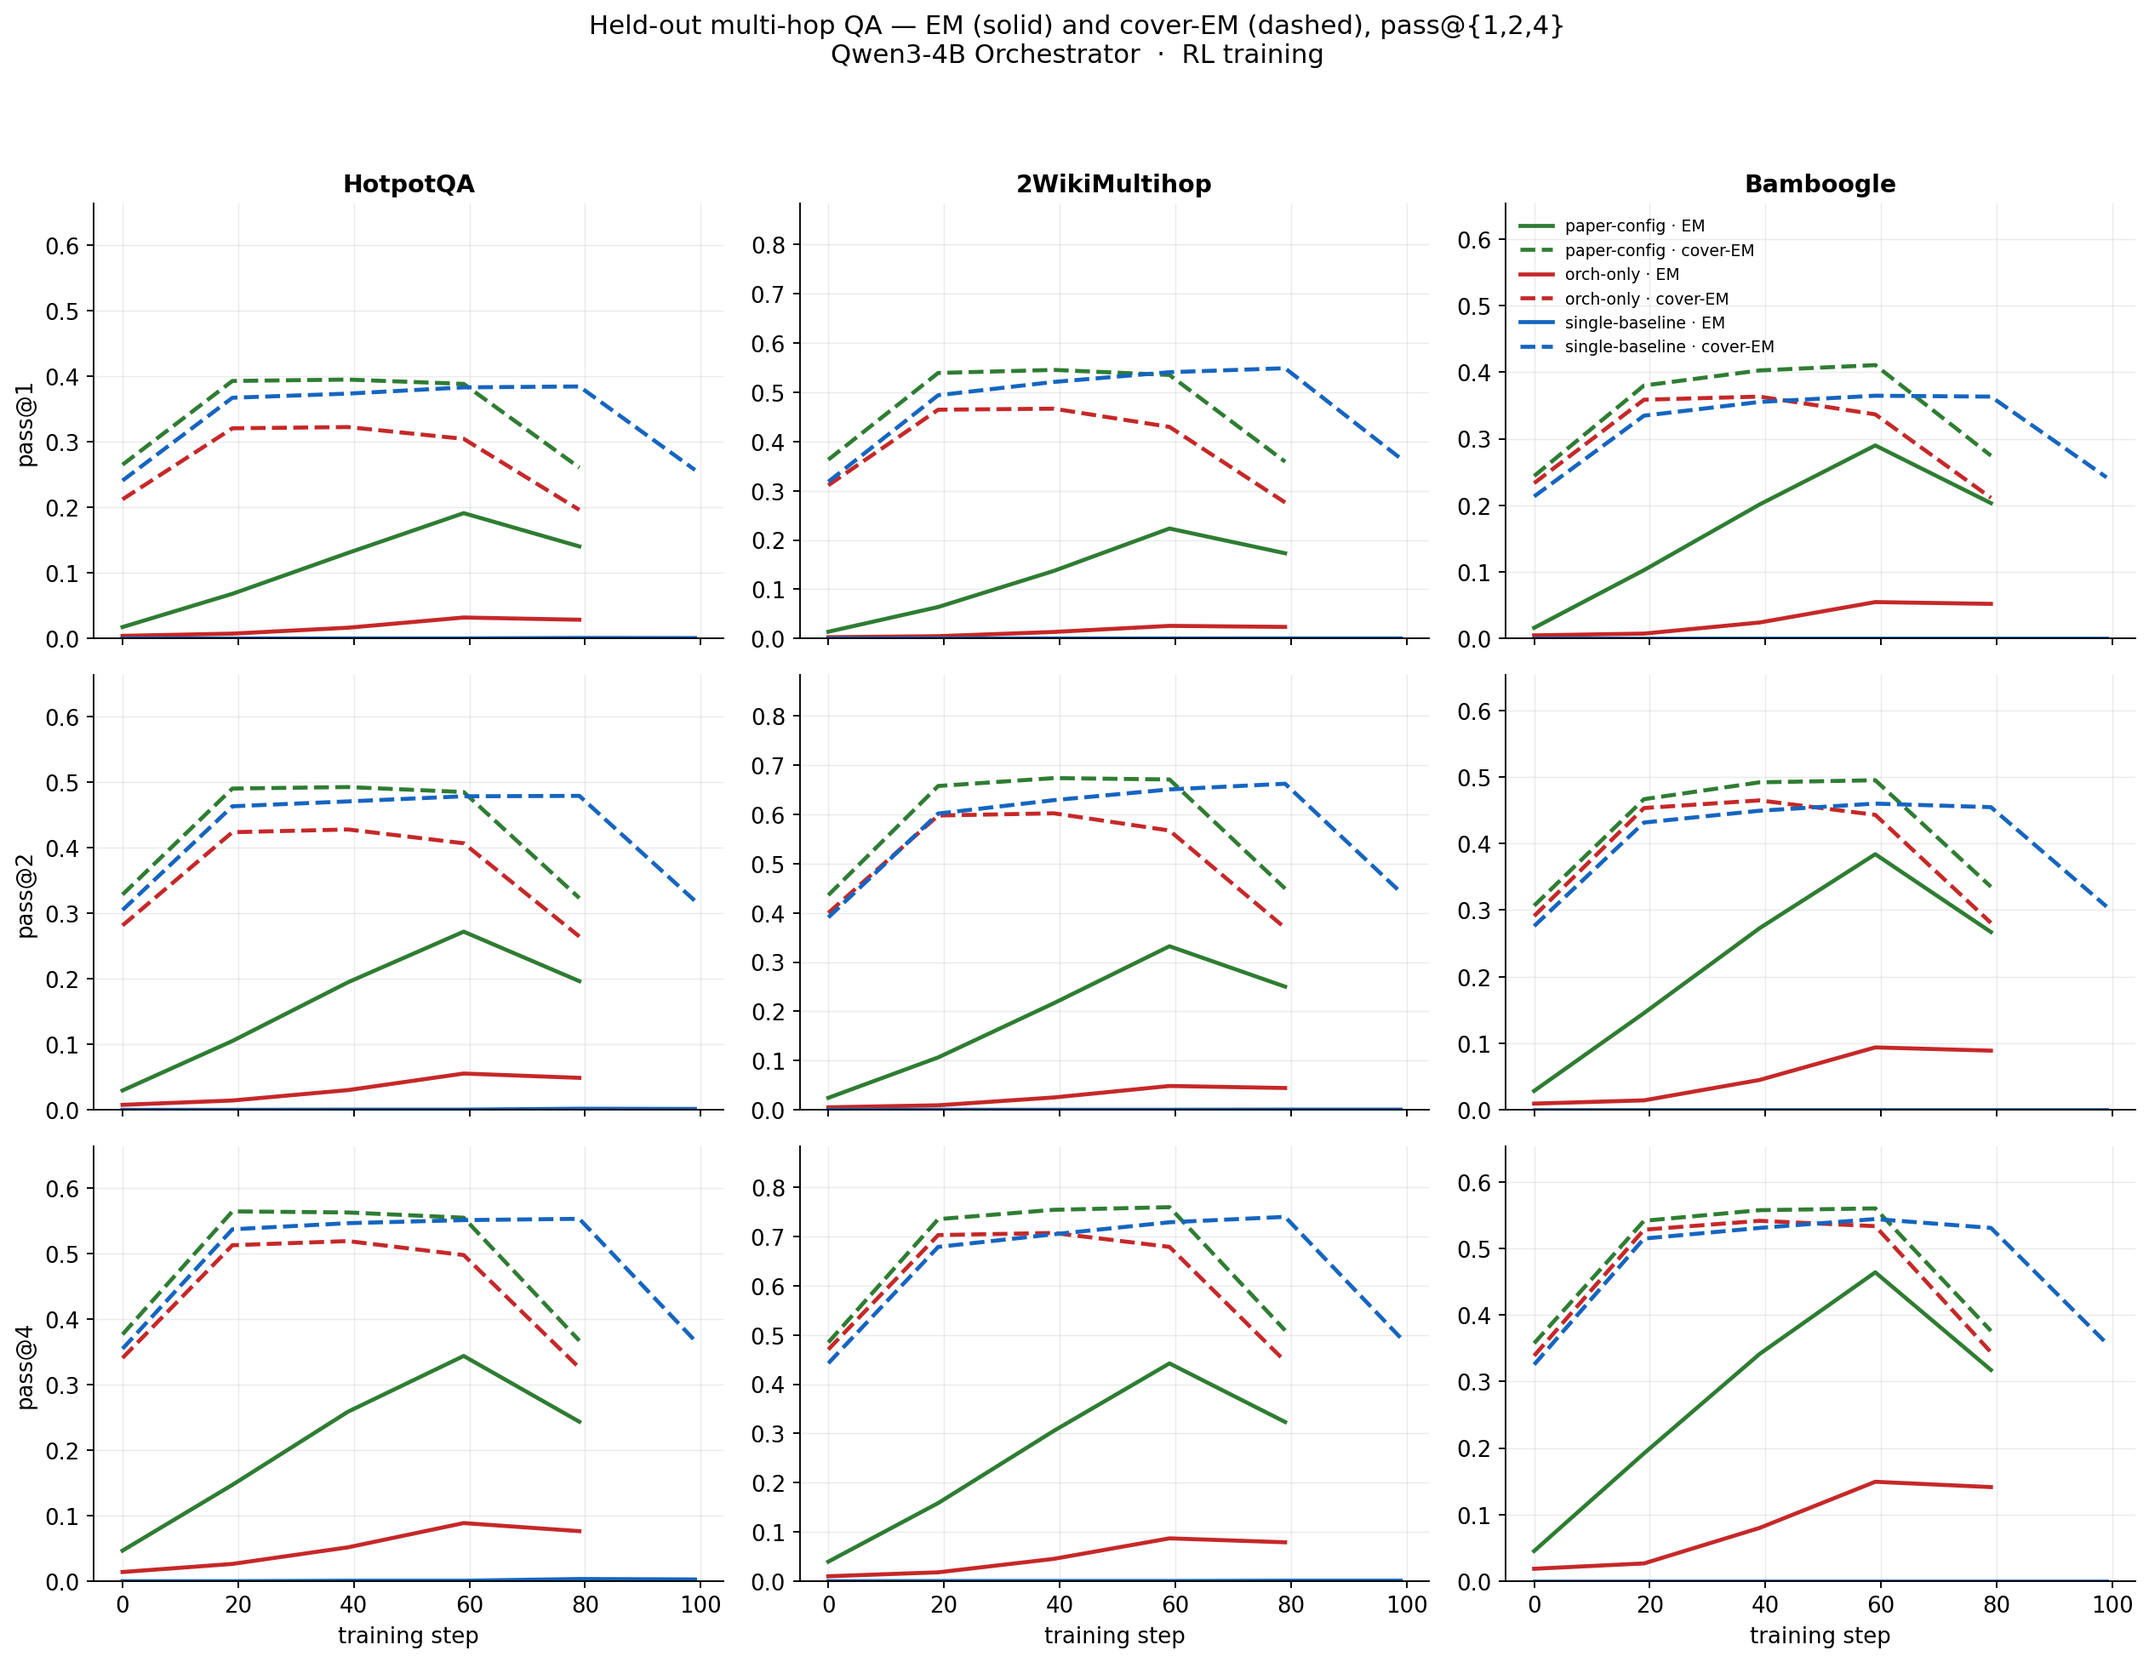
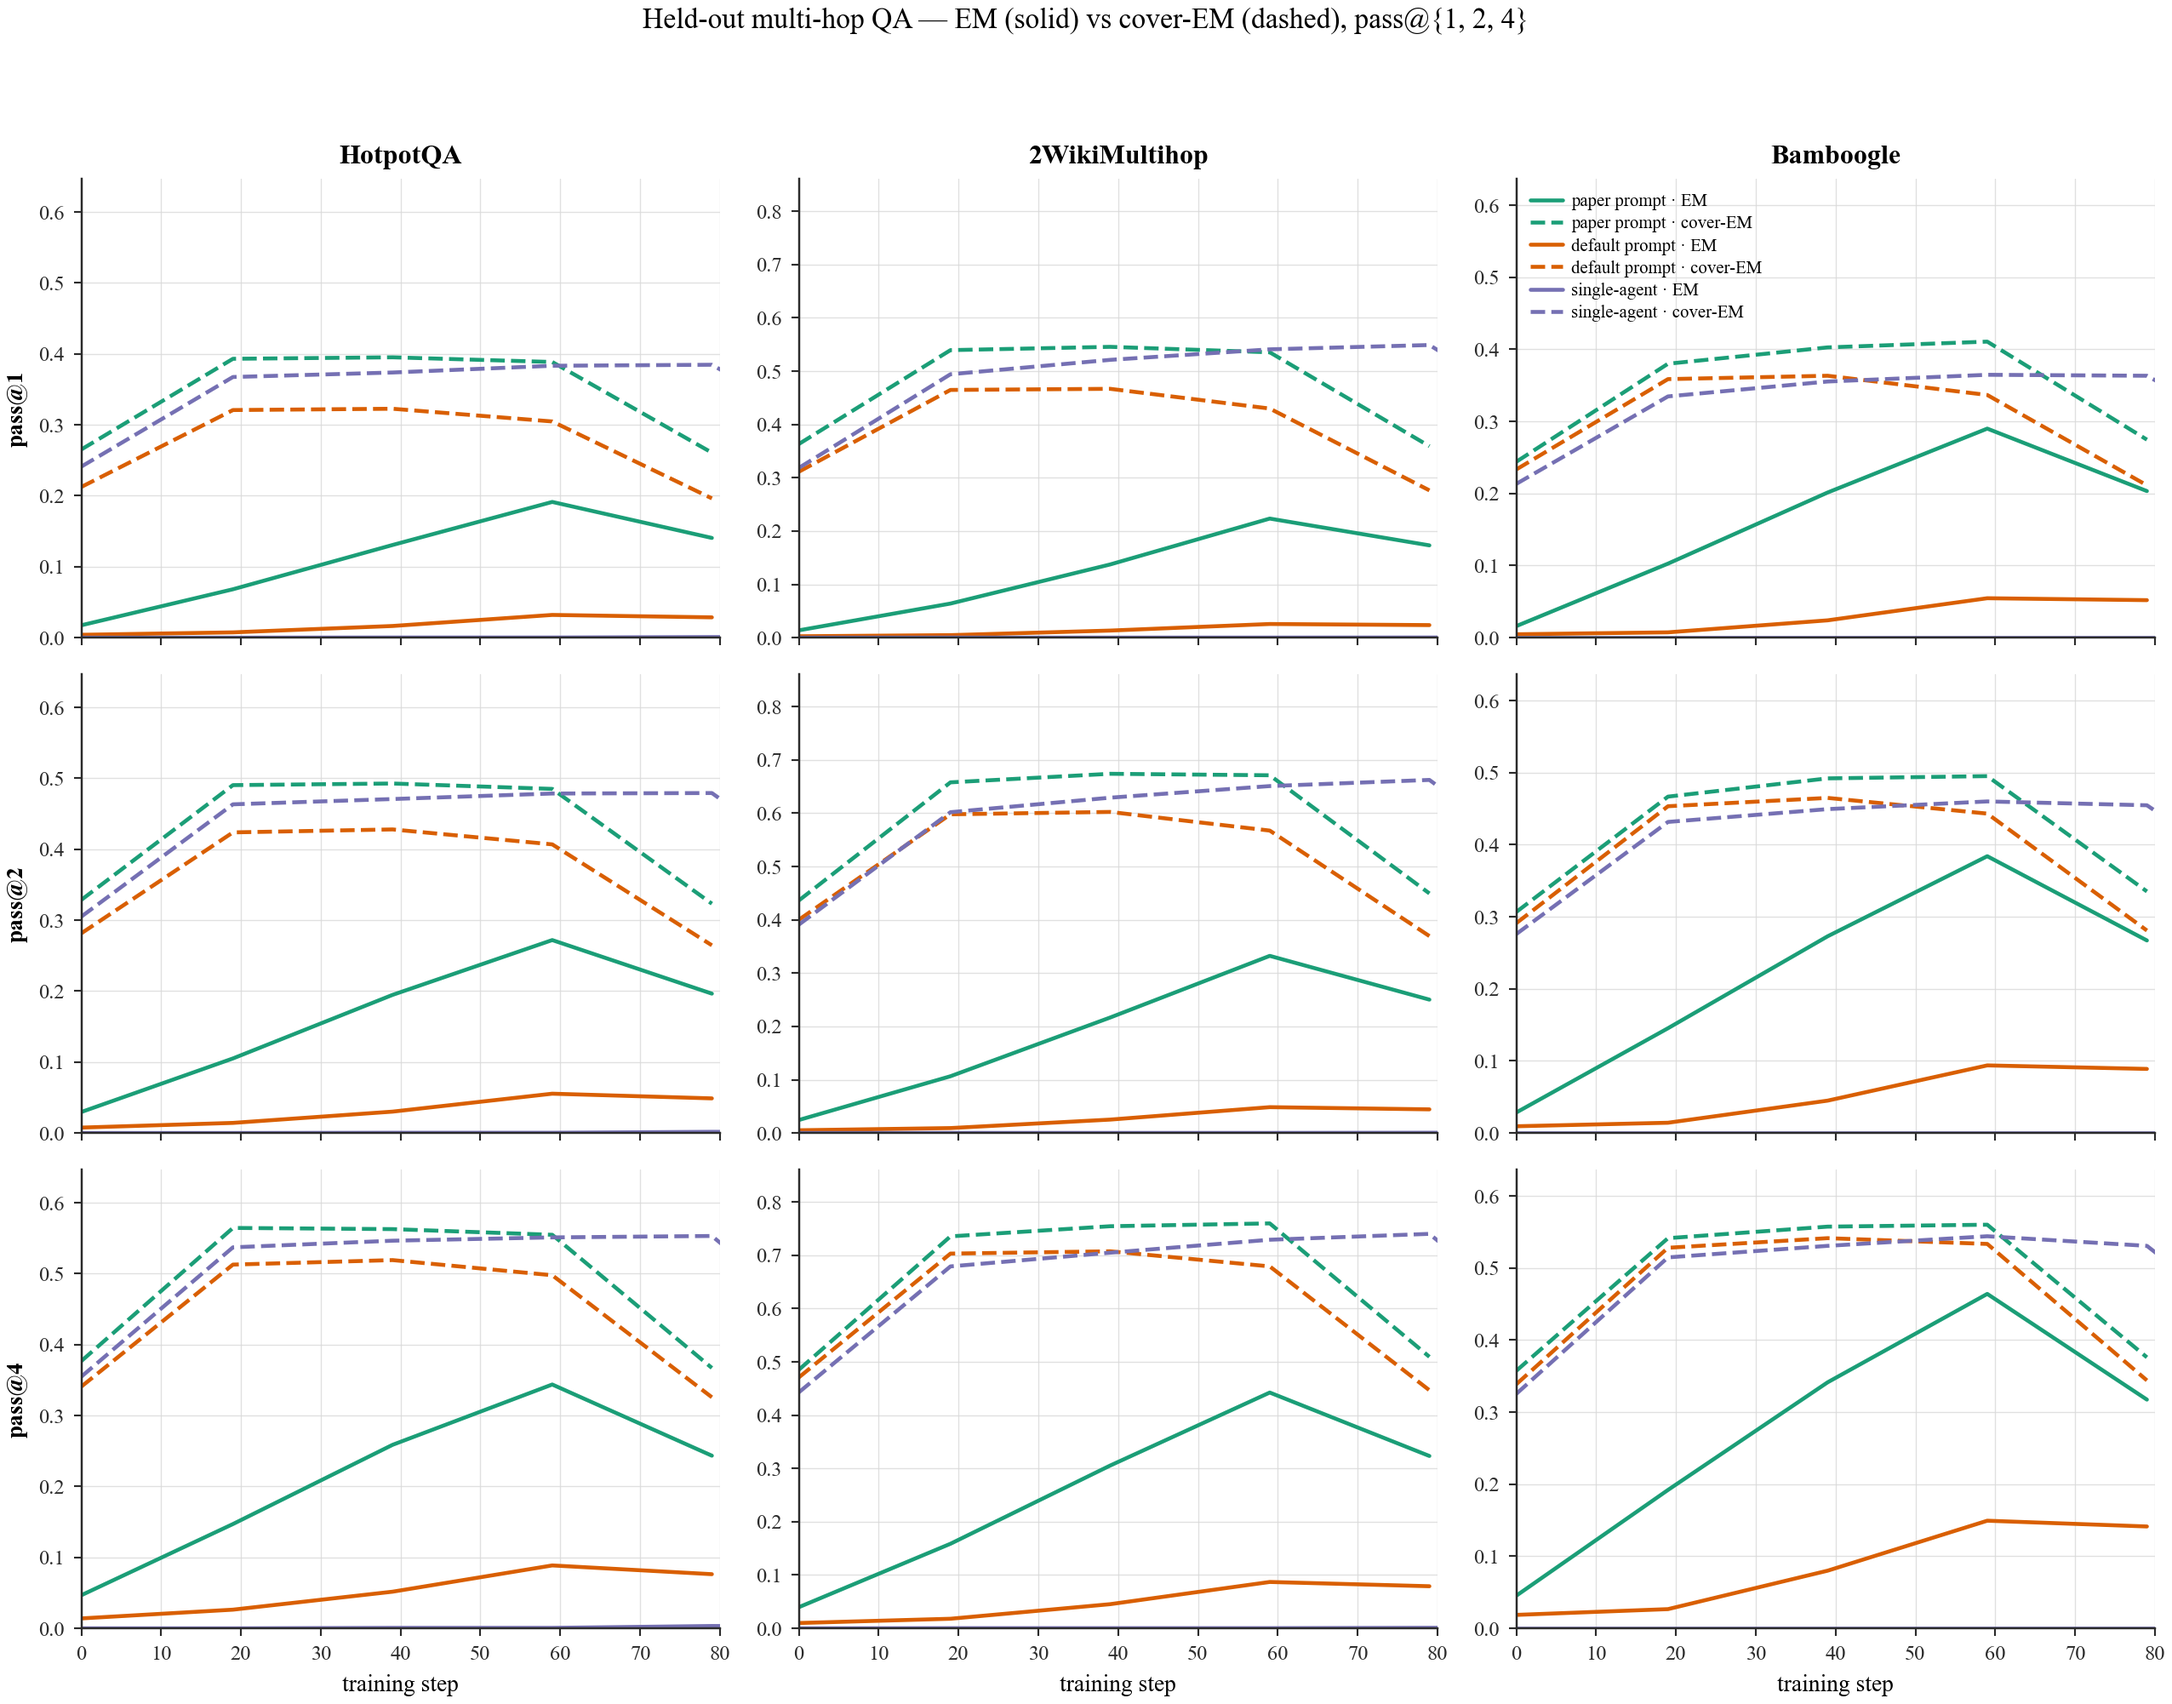
[docs] update blog.

diff --git a/BLOG.md b/BLOG.md
@@ -1,23 +1,21 @@
-# Two opposite phase transitions under the same RL signal
-
-*Reproducing Kimi K2.5's Agent Swarm on Qwen3-4B — a short note.*
+# Reproducing Kimi K2.5's Agent Swarm on Qwen3-4B
 
 Kimi K2.5 (Feb 2026, §3.1) warns about two failure modes when training a
 delegating Orchestrator with plain outcome reward:
 
 1. **Serial collapse** — the policy retreats to single-agent execution
-   because independent-subagent feedback is sparse/non-stationary.
+   because independent-subagent feedback is sparse / non-stationary.
 2. **Spurious parallelism** — the policy fires off arbitrarily many
    subagents to hack intermediate signals.
 
-The paper proposes a decoupled architecture and a `r_perf + λ₁·r_parallel
-+ λ₂·r_finish` reward to sidestep both. The paper does **not** give
-closed-form formulas for `r_parallel` / `r_finish`, nor the annealing
-schedule.
+The paper proposes a decoupled architecture and a
+`r_perf + λ₁·r_parallel + λ₂·r_finish` reward to sidestep both. The
+paper does **not** give closed-form formulas for `r_parallel` /
+`r_finish`, nor the annealing schedule.
 
-I trained three Qwen3-4B RL runs that differ **only** in the orchestrator
-prompt + which tools are exposed. Everything else — optimizer, dataset,
-critic, rollout budget, GRPO config — is identical:
+I trained three Qwen3-4B RL runs that differ **only** in the
+orchestrator prompt + which tools are exposed. Everything else —
+optimizer, dataset, critic, rollout budget, GRPO config — is identical:
 
 | Run | Orchestrator prompt | Tools available |
 |---|---|---|
@@ -25,89 +23,73 @@ critic, rollout budget, GRPO config — is identical:
 | `orch-only`       | **default** prompt  | search / browse / python / `create_subagent` / `assign_task` |
 | `paper-config`    | K2.5 orchestrator prompt | search / browse / python / `create_subagent` / `assign_task` |
 
-## 1 · Same RL signal, opposite phase transitions
+## Behavior, schedule, and target task in one view
 
 ![phase transition](docs/assets/phase_transition.png)
 
-Same tool set. Different system prompt. Opposite phase transitions.
+**(a) Two opposite phase transitions, same tool set.** Both runs expose
+`create_subagent` + `assign_task`. With the K2.5 orchestrator prompt
+(teal), `assign_task` call rate climbs **0.03 → 1.00**. With the
+default prompt (orange), it decays **0.80 → 0.10** — RL actively
+*unlearns* delegation. This operationalizes K2.5's theoretical
+serial-collapse as a sub-100-step phase transition, driven by prompt
+rather than by the policy's tool inventory.
 
-- **paper-config** (green): `assign_task` rate climbs **0.03 → 1.00**.
-- **orch-only** (red): `assign_task` rate decays **0.80 → 0.10**. Starts
-  willing to delegate (because the tools are there), but RL actively
-  *unlearns* delegation under the default prompt.
+**(b) Collapsed policy also degenerates.** It isn't a harmless
+single-agent fallback. Truncation rate climbs to **23%** and
+repetition to **24%** on the default-prompt run; the paper-config run
+stays under **5%** on both. The policy slowly gives up on producing
+coherent outputs.
 
-In the paper config the three delegation statistics move in lockstep:
-`assign_rate` and `delegate_ratio` go to 1.0, `direct_tool_rate` drops
-from 0.79 to 0.02. The Orchestrator essentially stops calling tools
-itself and becomes a pure dispatcher.
+**(c) Paper run: plans widen and deepen.** Each evaluated episode
+eventually composes **~12 `assign_task` calls × ~11 `create_subagent`
+instantiations**, with critical-path length growing proportionally.
+The Orchestrator is not just calling `assign_task` more often — it
+composes larger, deeper plans to spread across frozen subagents.
 
-The serial-collapse run doesn't just give up delegation — it also
-decoheres. Truncation rate climbs from ~0 to **23%**, repetition from
-~0 to **24%**. The paper run stays under 5% on both. So the failure
-mode isn't "harmless single-agent fallback"; it's a policy slowly
-giving up on producing coherent outputs.
+**(d) Target task does not improve.** WideSearch item-F1 (the
+training reward's widesearch term) stays flat-to-down across all three
+runs, and `is_success = 1[item-F1 = 1.0] ≡ 0` the whole way. Two
+closable gaps explain this:
 
-This makes K2.5's theoretical serial-collapse an observable, <100-step
-phase transition — driven by prompt, not by the policy's tool inventory.
+- `rollout_max_critical_steps = 48` vs the paper's Appendix E.8 budget
+  of **100 orchestrator + 100 subagent** steps for WideSearch;
+- `examples/parl_v2/widesearch/reward.py` ships
+  `ANNEAL_FRAC = 100.0`, so `λ₁` and `λ₂` **never anneal** under the
+  planned rollout count. Pressure from `r_parallel + r_finish` stays
+  constant, and the policy meets it by hacking spawn count (`n_assign`
+  climbs to ~12/episode, `r_parallel` saturates at 0.70) while item-F1
+  on WideSearch actually drops **0.059 → 0.048**.
 
-## 2 · The Orchestrator learns to schedule
+The delegation dynamics reproduce cleanly. Closing the WideSearch gap
+needs a correct annealing schedule and a matching step budget — both
+are single-line changes in the launcher / reward file.
 
-![parallelism](docs/assets/parallelism.png)
-
-Zooming into the paper-config run: RL progressively shifts the
-Orchestrator from *doing* work to *scheduling* it. Token budget routed
-to `assign_task` grows from 2% to 99%; the Orchestrator's own direct
-tool calls collapse to 2%.
-
-At the same time, each episode's plan widens *and* deepens:
-`assign_task` and `create_subagent` calls per evaluated episode grow
-from roughly zero to 8-12, and the critical-path length grows
-proportionally. The Orchestrator is not just calling `assign_task` more
-often — it is composing bigger, deeper plans to spread across frozen
-subagents.
-
-This is the scheduler behavior K2.5's Figure 4 describes, reproduced
-cleanly on a 4B orchestrator with the paper's prompt and a critical-step
-budget.
-
-## 3 · Multi-agent > single-agent on held-out evals
+## Held-out multi-hop QA — ordering is stable across pass@K
 
 ![per-task eval grid](docs/assets/per_task_eval_grid.png)
 
-Held-out multi-hop QA (HotpotQA, 2WikiMultihop, Bamboogle) evaluated
-over training, with **EM (solid) and cover-EM (dashed) at pass@{1,2,4}**.
+EM (solid) and cover-EM (dashed) on HotpotQA, 2WikiMultihop, and
+Bamboogle at pass@{1, 2, 4}.
 
-- **paper-config (green) is clearly ahead on strict EM** across all
-  three benchmarks and all three pass levels. The swarm-trained
-  Orchestrator generalizes the delegation strategy to out-of-distribution
-  QA.
-- **Ordering is stable as pass@K widens.** At pass@4 the paper-config
-  EM reaches 0.30+ on all three benchmarks; orch-only and
-  single-baseline stay near 0.10.
-- **cover-EM narrows the gap.** Reported alongside for context; the
-  three runs land in similar cover-EM bands across the benchmarks.
-
-The architectural choice (delegate or don't) plus the prompt that
-stabilizes delegation dominates the RL signal on strict EM.
-
-## What's next
-
-The delegation dynamics reproduce cleanly. The open items are on the
-reward-shaping side:
-
-- **Anneal λ₁/λ₂.** The current `reward.py:ANNEAL_FRAC = 100.0` means
-  auxiliary terms never decay. Replacing with a proper schedule is the
-  smallest-delta next experiment.
-- **Critical-step budget 48 → 100+100.** Matches the paper's Appendix
-  E.8 for WideSearch; required before a fair final-benchmark number.
-- **Curriculum on subagent size.** Swap a smaller frozen subagent into
-  `configs/sglang_4B.yaml` and re-run to try the paper's curriculum.
+- **paper-config (teal) is clearly ahead on strict EM** across all
+  three benchmarks and all three pass levels. The ordering does not
+  invert as K grows, so this is not a pass@4 artifact — it's a
+  reproducible behavioral effect.
+- **cover-EM narrows the gap.** All three runs land in similar
+  cover-EM bands, suggesting that subagents already "know" the answer.
+  What the orchestrator learns under the paper prompt is to
+  **assemble and format** the final response precisely enough to match
+  strict EM.
+- **The default-prompt run underperforms single-agent on HotpotQA /
+  2Wiki cover-EM** — another symptom of the behavioral collapse
+  visible in panel (b) above.
 
 ---
 
-**Runs**: `pa9lipn3` (single), `tqzr8z9x` (orch-only), `gbamfgd3`
-(paper-config). All ran on 1× H200 × 8, Qwen3-4B Orchestrator +
-Qwen3-4B frozen Subagent, GRPO, ~80 updates. Reproduction launchers:
+**Runs**: All ran on 1× H200 × 8, Qwen3-4B
+Orchestrator + Qwen3-4B frozen Subagent, GRPO, ~80 updates.
+Reproduction launchers:
 [`scripts/run-qwen3-4B-{single,orchestrator_only,parl}.sh`](scripts/).
 
 **Reference:** Kimi Team, *Kimi K2.5: Visual Agentic Intelligence*,
